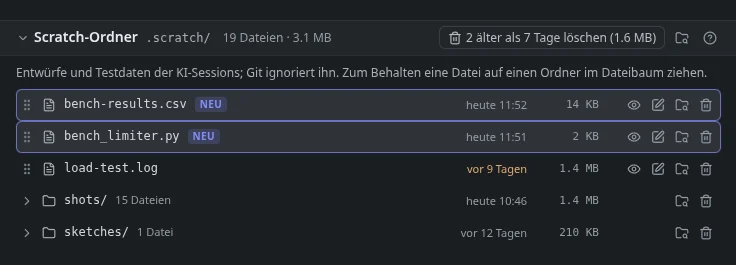
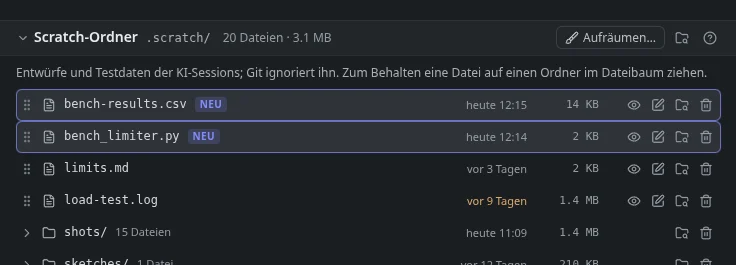
CodeDeck manual: the scratch tile no longer has 'delete older than 7 days'
Claude-Session: https://claude.ai/code/session_01AmUU1ckh5iDie4vHPz56Cn

diff --git a/src/pages/codedeck/manual/de/tutorial/06-werkbank.md b/src/pages/codedeck/manual/de/tutorial/06-werkbank.md
@@ -21,11 +21,11 @@ Die Werkbank zeigt ihren Inhalt in **Kacheln**, oben das, was am ehesten eine En
 
 Der **Scratch-Ordner** `.scratch/` liegt in deinem Projekt, wird von Git aber ignoriert. CodeDeck trägt ihn dafür in die lokale Ausschlussliste von Git ein (`.git/info/exclude`), nicht in die `.gitignore`, sodass sich an deinem Projekt nichts ändert. Was dort liegt, kommt also nie aus Versehen in einen Commit.
 
-![Die Kachel Scratch-Ordner mit 19 Dateien: Dateien mit Größe und Alter, zwei davon als „neu“ markiert, zwei Ordner, oben der Knopf „2 älter als 7 Tage löschen“](/codedeck/manual/de/werkbank-scratch.webp)
+![Die Kachel Scratch-Ordner mit 19 Dateien: Dateien mit Größe und Alter, zwei davon als „neu“ markiert, zwei Ordner](/codedeck/manual/de/werkbank-scratch.webp)
 
 Die Kachel listet die Dateien und Ordner mit Größe, Alter und der Session, die sie geschrieben hat. Mit den Werkzeugen rechts siehst du eine Datei an, bearbeitest sie, zeigst sie im Dateimanager oder legst sie in den Papierkorb. Ein Doppelklick öffnet eine Datei zum Ansehen, ein Klick mit der mittleren Maustaste zum Bearbeiten.
 
-Willst du eine Datei behalten, **ziehst du sie auf einen Ordner in der Dateiliste**. CodeDeck verschiebt sie dorthin, und sie wird Teil deines Projekts. Zum Aufräumen gibt es oben in der Kachel einen Knopf, der alles löscht, was älter als sieben Tage ist. Auch dann landet es im Papierkorb, aus dem du es noch zurückholen kannst.
+Willst du eine Datei behalten, **ziehst du sie auf einen Ordner in der Dateiliste**. CodeDeck verschiebt sie dorthin, und sie wird Teil deines Projekts. Was du nicht mehr brauchst, legst du in den Papierkorb, aus dem du es noch zurückholen kannst.
 
 ## Außerhalb des Projekts
 
